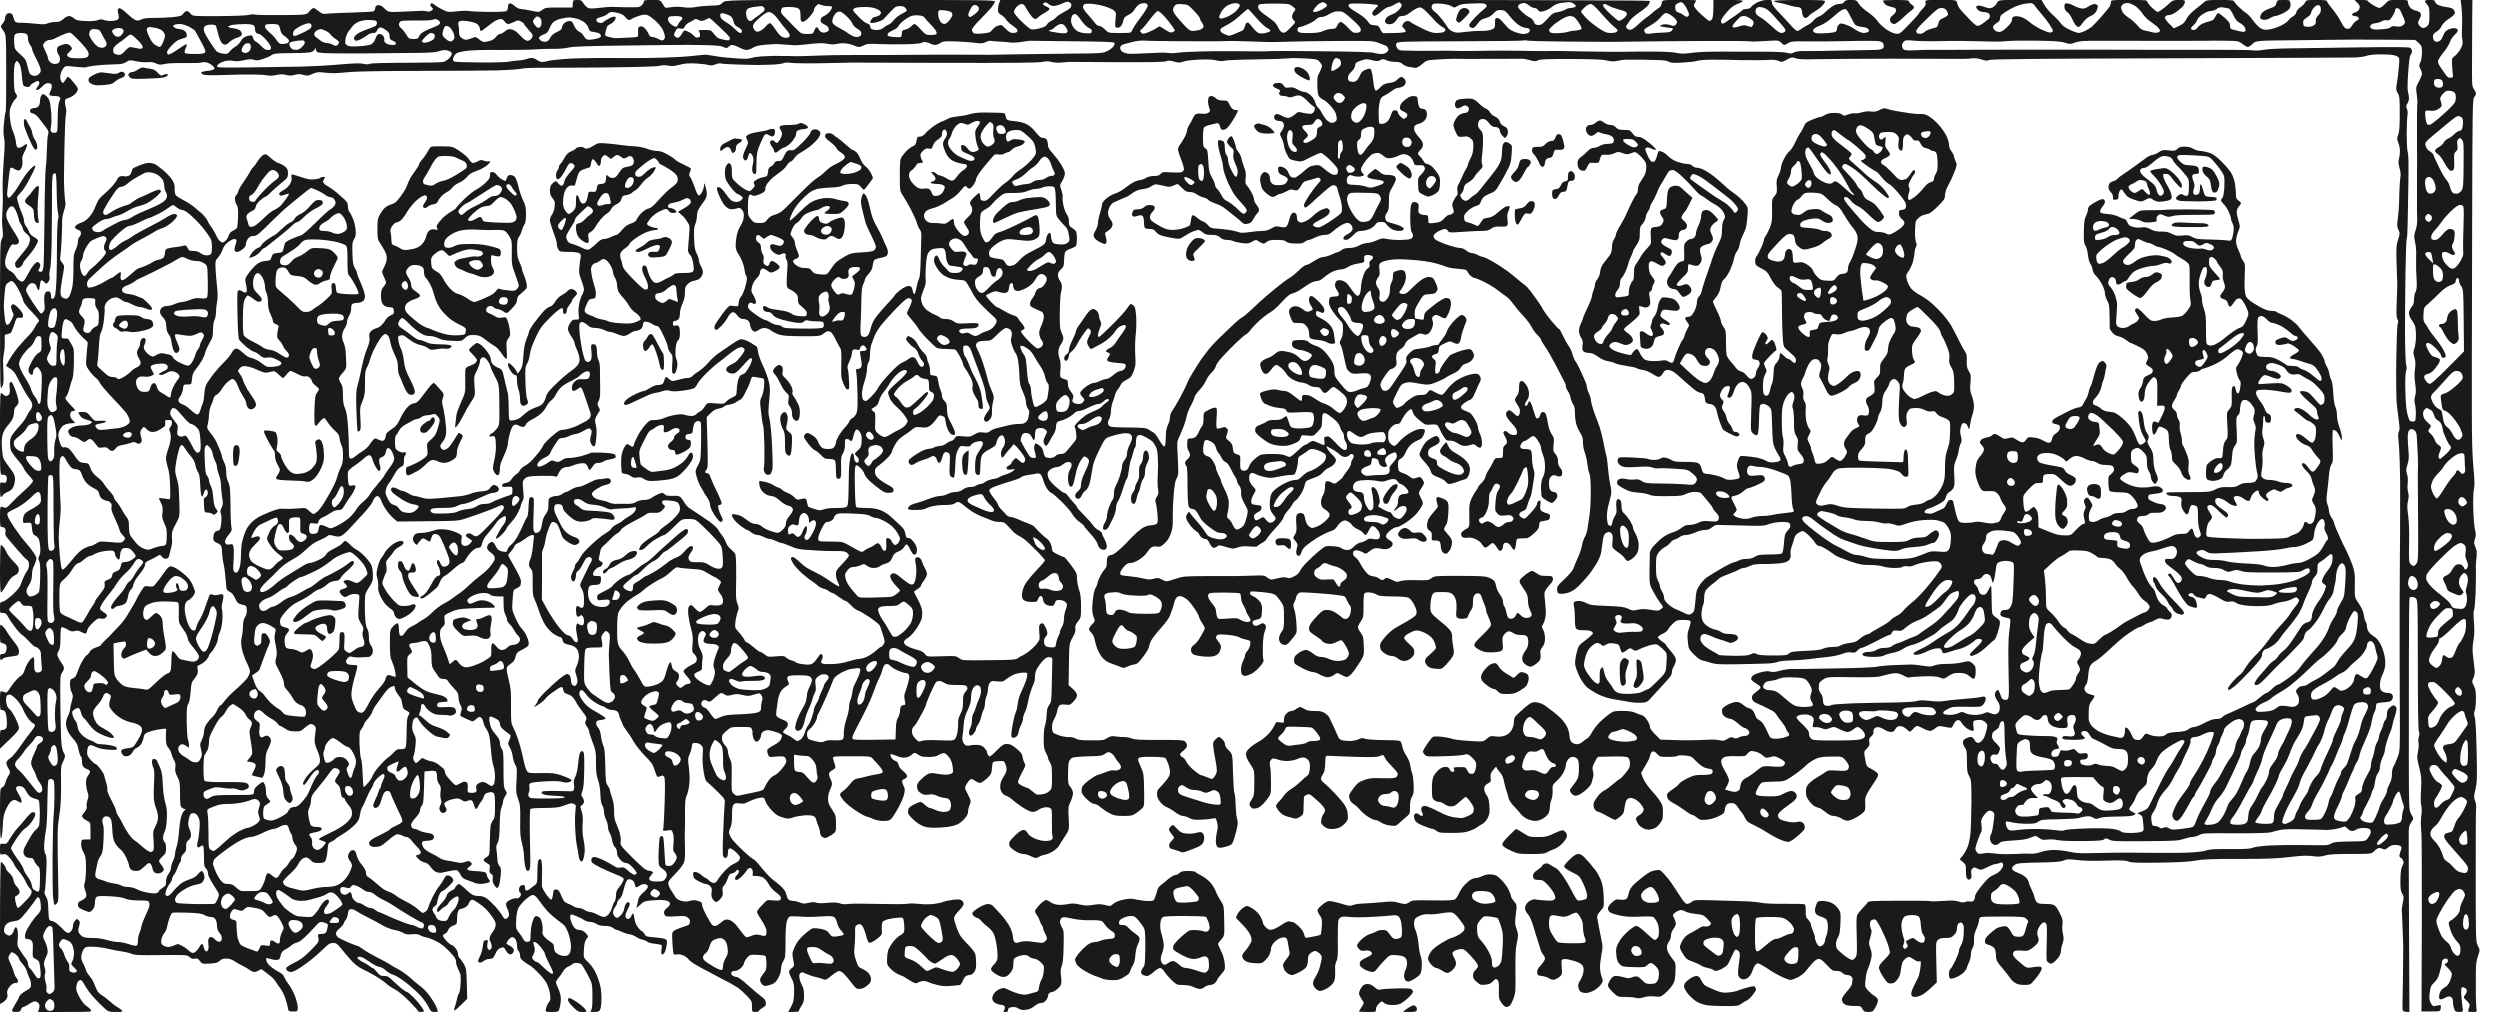
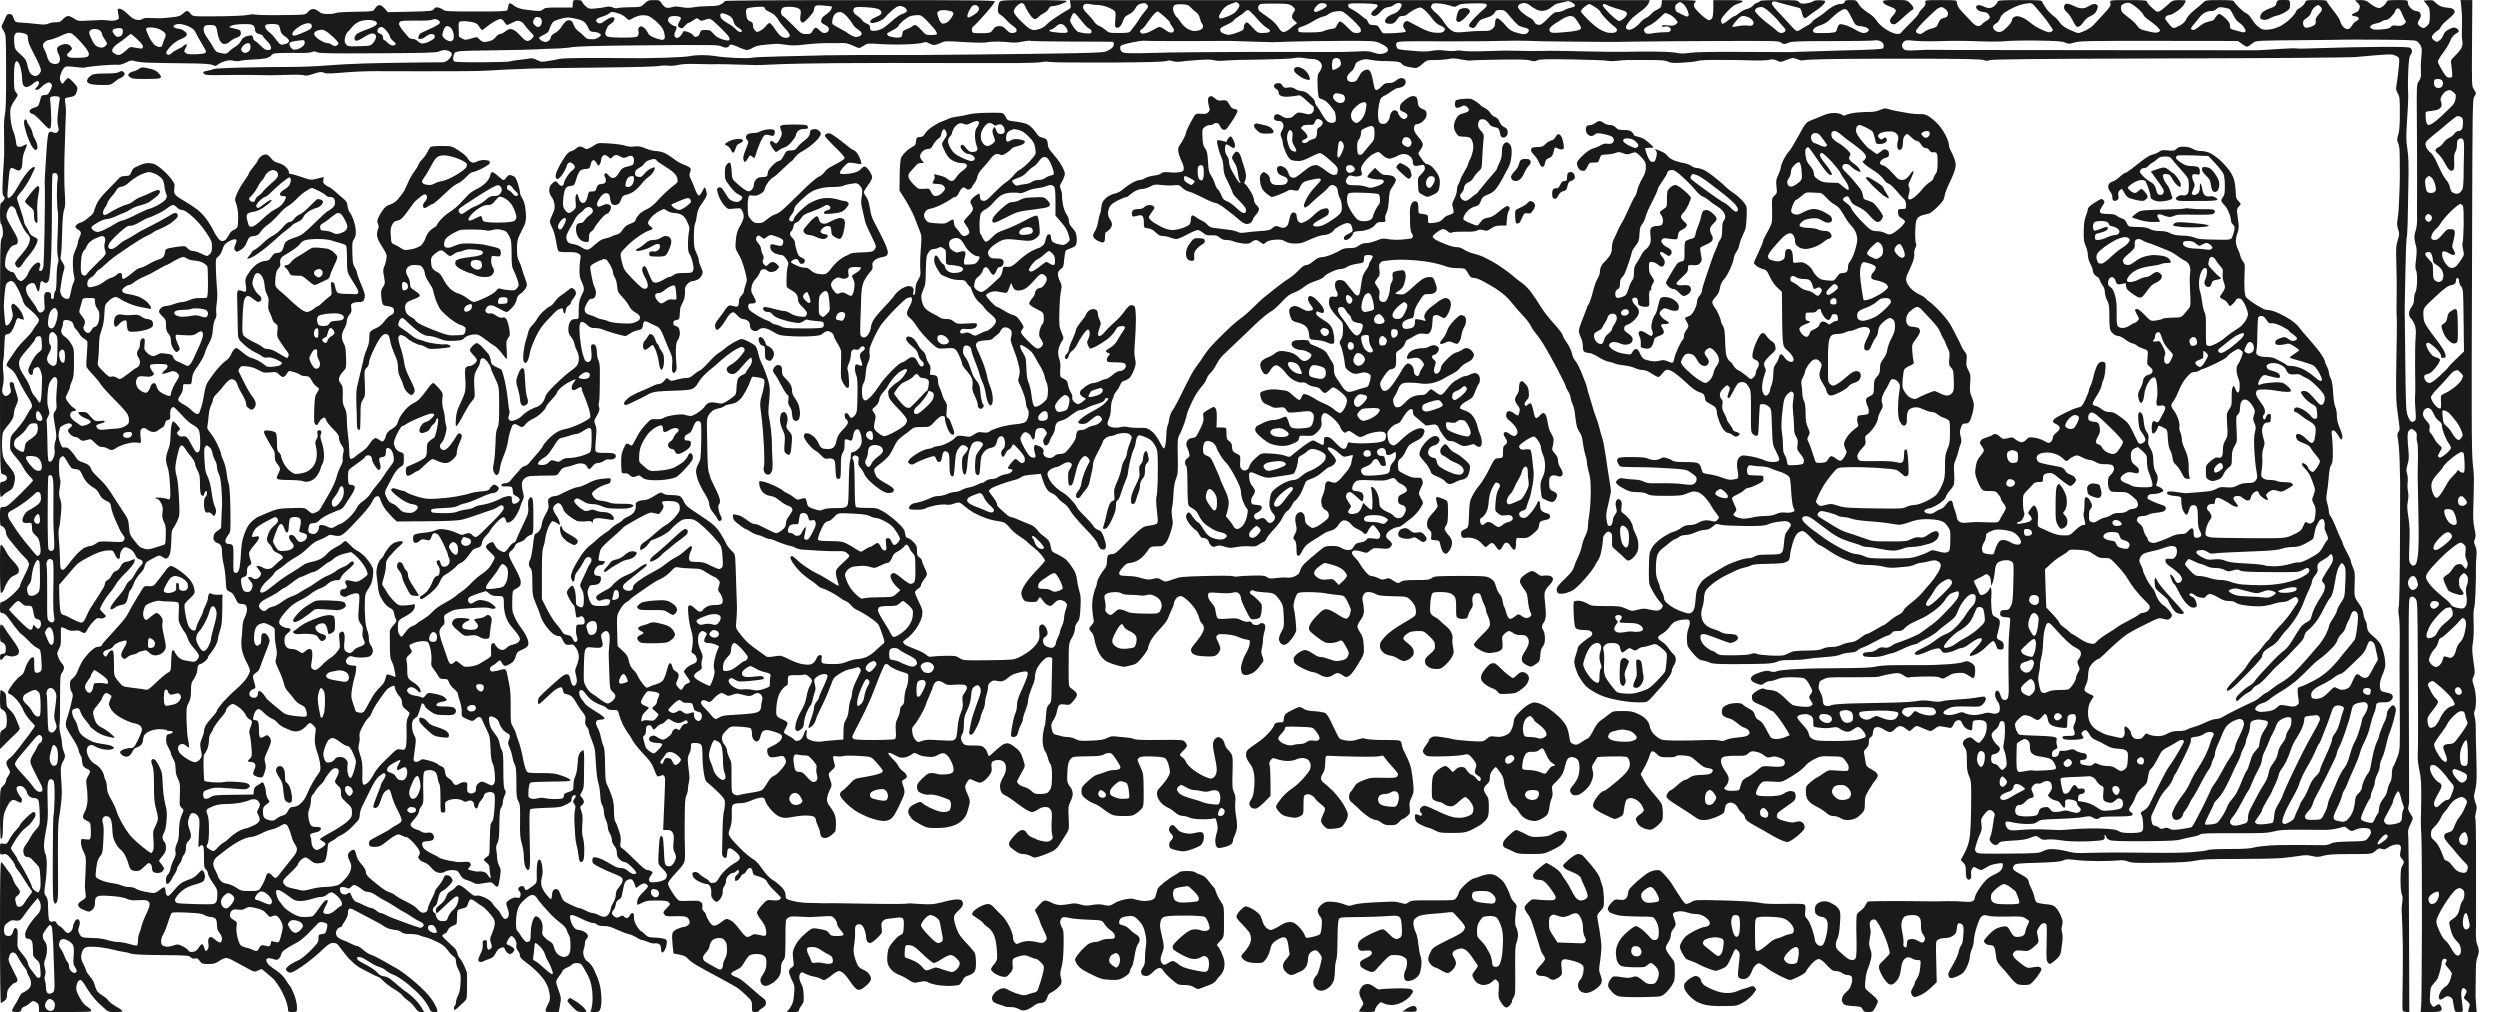
Add files via upload

diff --git a/sikh-studies.html b/sikh-studies.html
@@ -33,10 +33,11 @@
 </header>
 <main class="wrap page">
 
-  <figure class="illustration illustration--wide">
+  <figure class="illustration illustration--wide illustration--ink">
     <img src="sangat-mool-mantar.webp"
-         alt="Early printed illustration of a Sikh sangat: men seated in rows before a granthi reading from a large book, with the Mool Mantar in Gurmukhi across the foreground"
-         title="Artist’s rendition of the Sangat — the Sikh congregation listening to katha (loosely translated as sermon) from Bhai Mani Singh. A scribe can be seen writing down what can be assumed to be the original manuscript.">
+         alt="Line drawing traced from an early printed illustration of a Sikh sangat: men seated in rows before a granthi reading from a large book, with the Mool Mantar in Gurmukhi across the foreground"
+         title="Artist’s rendition of the Sangat — the Sikh congregation listening to katha (loosely translated as sermon) from Bhai Mani Singh. A scribe can be seen writing down what can be assumed to be the original manuscript."
+         width="2496" height="1012">
   </figure>
 
 

diff --git a/style.css b/style.css
@@ -192,7 +192,9 @@ h1, h2, h3 { text-wrap: balance; }
 
 .illustration { margin: 1rem 0 0; }
 .illustration img, .lab-photo img { display: block; width: 100%; height: auto; border-radius: 8px; }
-.illustration--wide img { max-height: 22rem; object-fit: cover; }
+.illustration--ink img { border-radius: 0; }
+@media (prefers-color-scheme: dark) { :root:not([data-theme="light"]) .illustration--ink img { filter: invert(1); } }
+:root[data-theme="dark"] .illustration--ink img { filter: invert(1); }
 .lab-photo { margin: 1.2rem 0 0; max-width: 52rem; }
 .lab-photo figcaption, .illustration figcaption, .caption { font-size: .88rem; color: var(--soft); margin: .6rem 0 0; max-width: 62ch; line-height: 1.55; }
 
